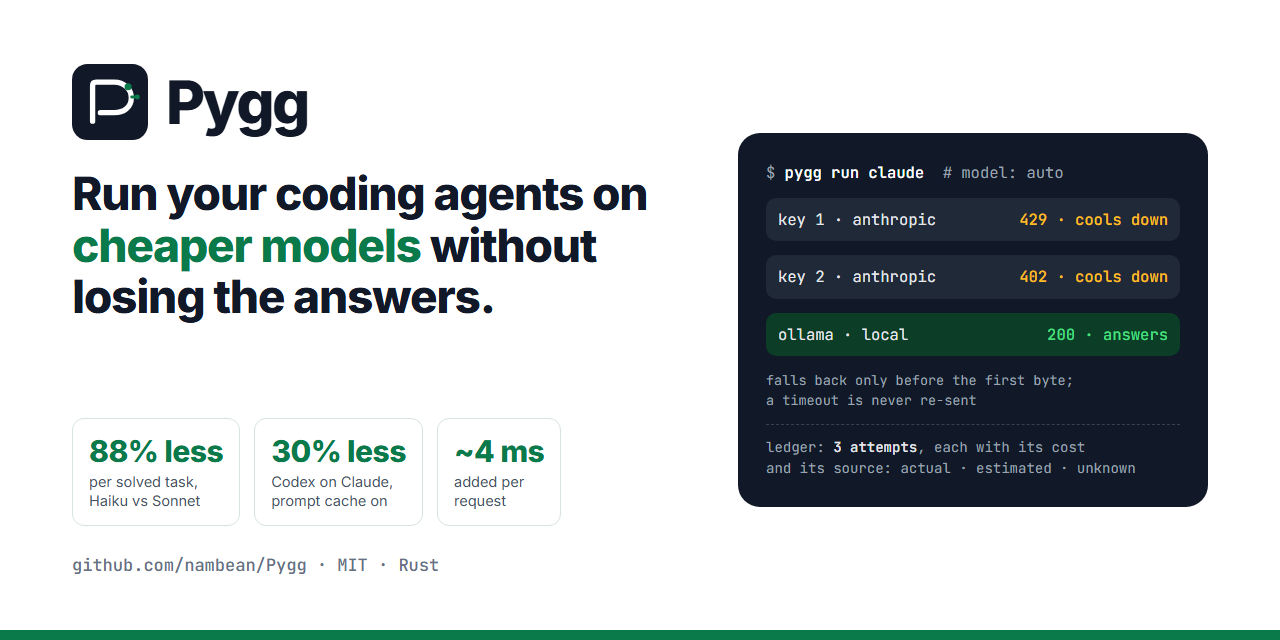
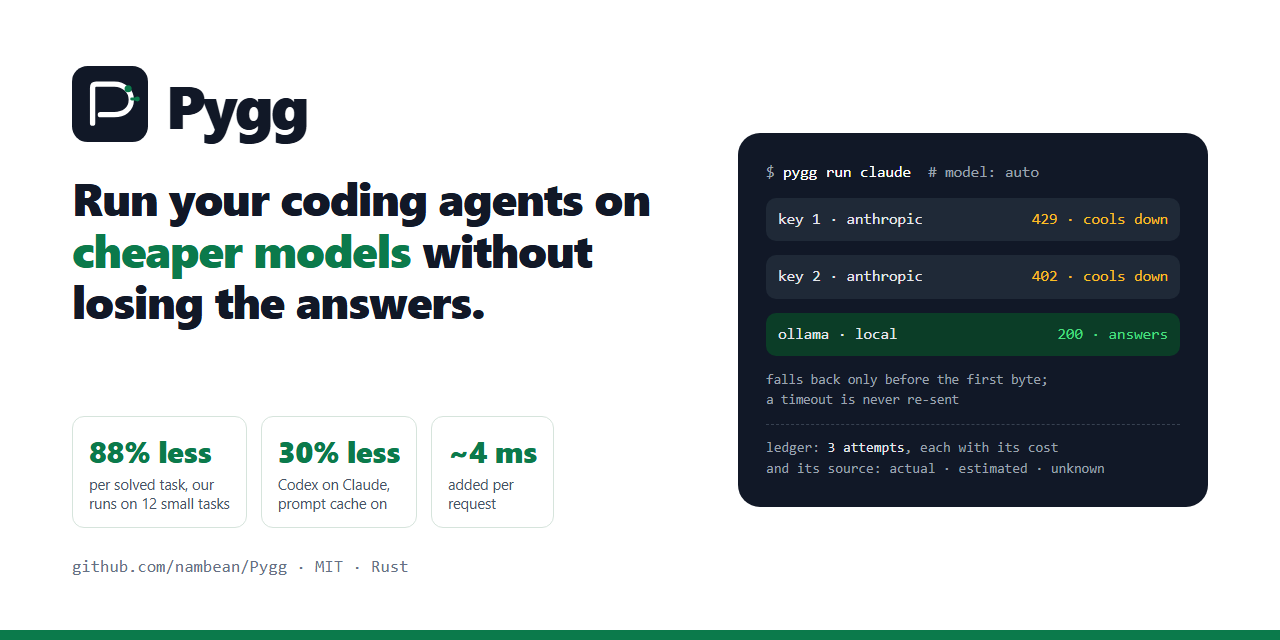
docs: the benchmark figures are the maintainer's own runs; ask the community to benchmark
The README headline calls 88% and 40% "our own first runs" and links a new
"Benchmark it on your work" section. CONTRIBUTING gains "Benchmark runs":
run the harness on your own keys and repositories, publish result lines
from private code, and send losing runs as well as winning ones. The
social preview says the 88% is from our runs on 12 small tasks.

diff --git a/branding/pygg-social-preview.html b/branding/pygg-social-preview.html
@@ -39,7 +39,7 @@ h1 em { font-style: normal; color: #0B7A4B; }
   </div>
   <h1>Run your coding agents on <em>cheaper models</em> without losing the answers.</h1>
   <div class="stats">
-    <div class="stat"><b>88% less</b><span>per solved task,<br>Haiku vs Sonnet</span></div>
+    <div class="stat"><b>88% less</b><span>per solved task, our<br>runs on 12 small tasks</span></div>
     <div class="stat"><b>30% less</b><span>Codex on Claude,<br>prompt cache on</span></div>
     <div class="stat"><b>~4 ms</b><span>added per<br>request</span></div>
   </div>

diff --git a/README.md b/README.md
@@ -7,7 +7,7 @@
 
 <h3 align="center">Run your coding agents on cheaper models without losing the answers.</h3>
 
-<p align="center">Pygg is a local gateway that routes each request to a model you connected, and measures what it saved:<br><b><a href="#measured-not-claimed">88% less per solved task</a></b> on 12 small coding tasks (36 of 36 runs solved in one attempt),<br>and about 40% less on a real repository, where the cheaper model took more turns.</p>
+<p align="center">Pygg is a local gateway that routes each request to a model you connected, and measures what it saved.<br>Our own first runs: <b><a href="#measured-not-claimed">88% less per solved task</a></b> on 12 small coding tasks, about 40% on a real repository.<br>A small sample: <a href="#benchmark-it-on-your-work">help benchmark it on your work</a>.</p>
 
 <p align="center">
 <a href="https://github.com/nambean/Pygg/actions/workflows/ci.yml"><img src="https://github.com/nambean/Pygg/actions/workflows/ci.yml/badge.svg" alt="CI"></a>
@@ -142,7 +142,7 @@ Each `setup` takes `--dry-run` to show what would change and `--remove` to undo 
 
 ## Measured, not claimed
 
-Real agents, real models, checks the agent cannot edit, about $16.7 of a $20 budget in all. Each report gives its method, raw results and what it does not show; read it before quoting a number. Summary: [BENCHMARKS.md](docs/BENCHMARKS.md).
+Every run below is the maintainer's own check: real agents, real models, checks the agent cannot edit, about $16.7 of a $20 budget in all. Each report gives its method, raw results and what it does not show; read it before quoting a number. Summary: [BENCHMARKS.md](docs/BENCHMARKS.md).
 
 | What was measured | Result | Report |
 | --- | --- | --- |
@@ -166,6 +166,10 @@ Not claimed: a quality ranking of models (a handful of tasks each), a provider's
 | sits behind a key ring of several accounts | sessions stay on one key: 60 / 60 | 0 / 60 by default, 60 / 60 with affinity on |
 
 Where Pygg is worse: about 230 requests/s on one PC (LiteLLM publishes 1,170 on four instances), no timeout fallback for a hung provider, and a 5xx or dropped connection reaches your agent as an error by default. Reports: [resilience](benchmark/reports/2026-11-14-resilience.md), [tokens and cost](benchmark/reports/2026-11-14-token-savings.md), [web guard](benchmark/reports/2026-11-14-web-guard.md).
+
+### Benchmark it on your work
+
+One person's runs on a few dozen tasks are a start, not proof. The benchmark needs the community: run the [harness](benchmark/README.md) on the cases here or on your own repositories (they can stay private; only the result lines are published, as in [CCHT](benchmark/reports/2026-11-13-ccht-real-repository.md)), add cases the runs above lack, such as large refactors, database migrations and other languages, and open a pull request with the report and its raw results ([how](CONTRIBUTING.md#benchmark-runs)). A run where the cheaper model loses is as welcome as one where it wins.
 
 ## What's inside
 

diff --git a/CONTRIBUTING.md b/CONTRIBUTING.md
@@ -53,9 +53,18 @@ CI runs all of these on Windows, and the layout check below. A separate workflow
 ## Live tests and money
 
 - **Never commit a key or token.** Keys come from environment variables; test keys put in the OS credential store are removed afterwards.
-- **A live run against a paid provider** needs the maintainer's approval and fits the benchmark budget ($20 in total, ADR-028). Record what it verified, the model, the date and what it cost in IMPLEMENTATION-STATUS.
+- **A live run on the project's budget** needs the maintainer's approval and fits the benchmark budget ($20 in total, ADR-028). Record what it verified, the model, the date and what it cost in IMPLEMENTATION-STATUS.
 - **Web sessions** are real accounts on sites that may ban them. Live checks are short questions only, with the guard on; never point a benchmark of long prompts at a web session.
 - **Say what was not verified.** "Built" names its code; "verified" says how (unit test, fake provider, live run).
+
+## Benchmark runs
+
+Every published number so far is the maintainer's own run, on a few dozen tasks. Runs from other people, on their own keys and their own work, are the contribution the benchmark needs most.
+
+- **Run the [harness](benchmark/README.md)** on the cases in `benchmark/cases`, on new cases, or on your own repository. Cases the published runs lack are the most useful: large refactors, database migrations, other languages, larger real repositories.
+- **A private repository is fine.** Publish the result lines, not the code, as the [CCHT report](benchmark/reports/2026-11-13-ccht-real-repository.md) does.
+- **Open a pull request** with the report in `benchmark/reports/` and its raw results in `benchmark/results/`, scanned for keys, tokens and local paths. Say the agent and its version, the models, the prices used, the repeats, what counts as solved, and what the run cannot claim, as the existing reports do.
+- **A run where the cheaper model loses is as welcome as one where it wins.** The README's figures change when the evidence does.
 
 ## Writing
 
